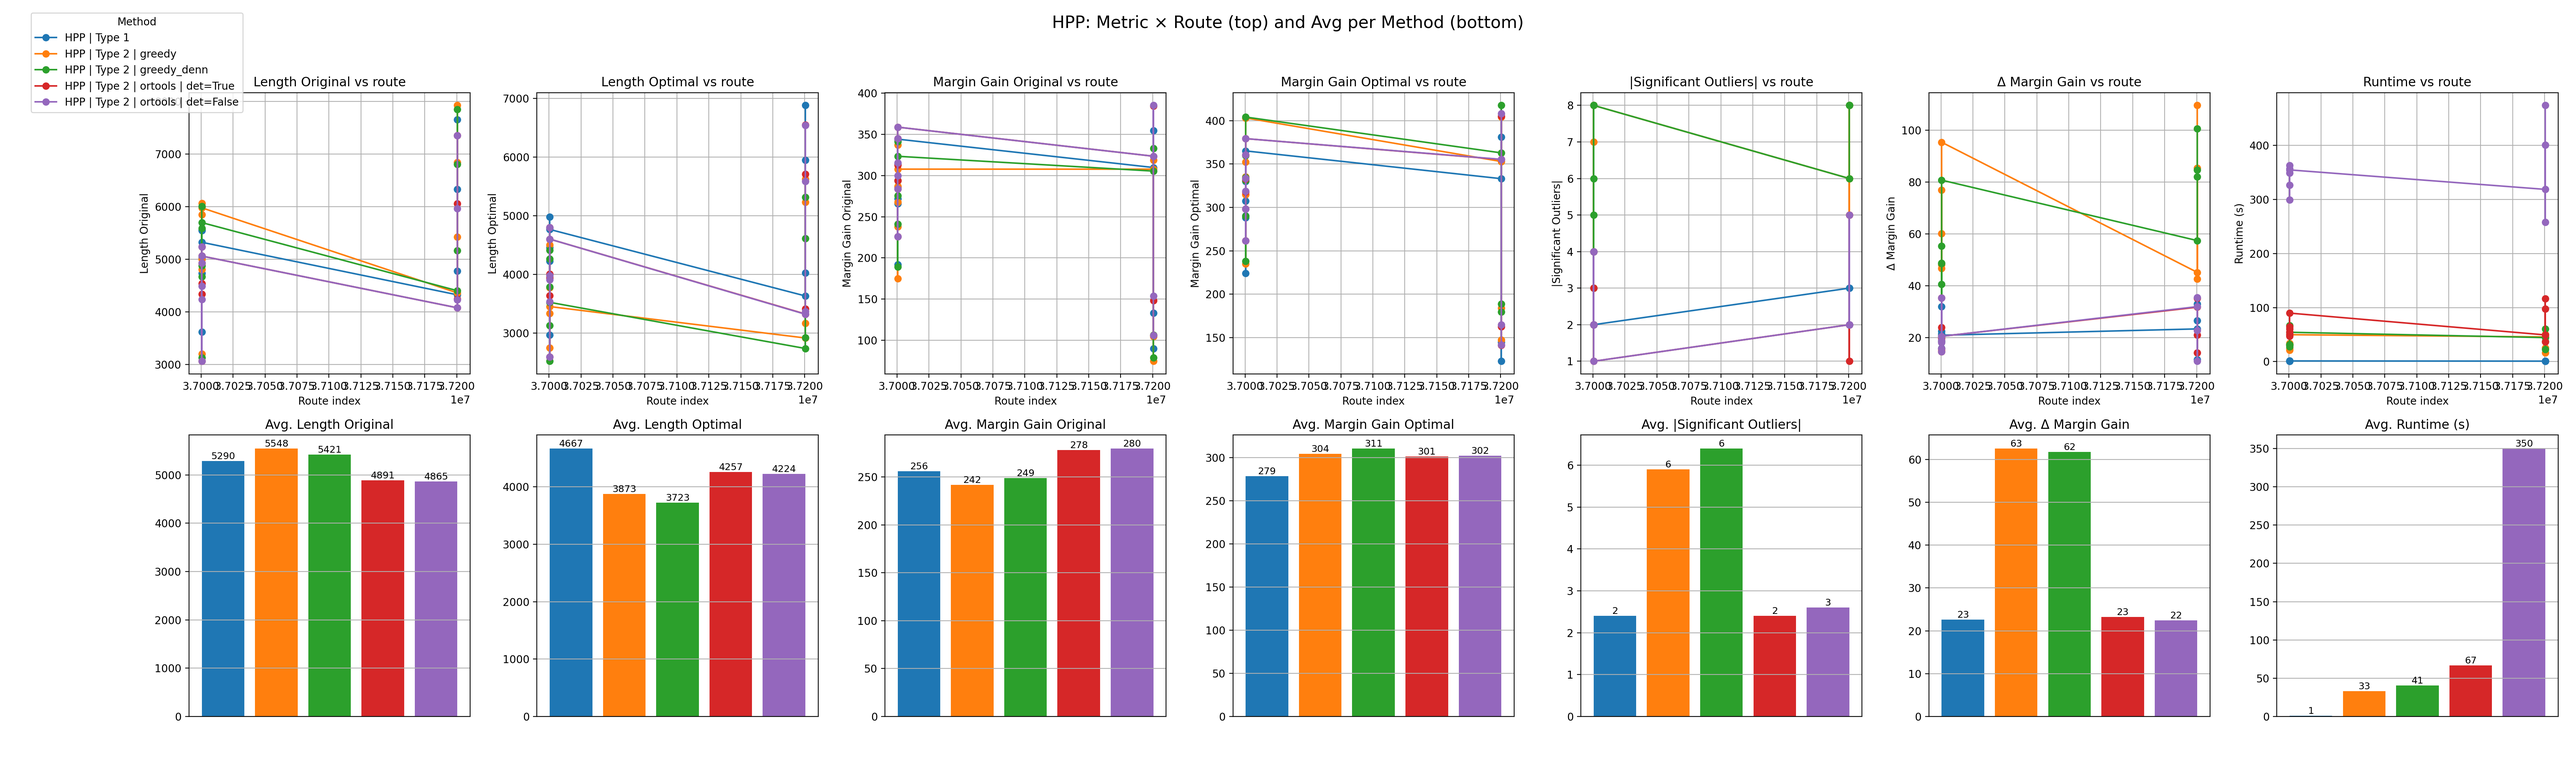
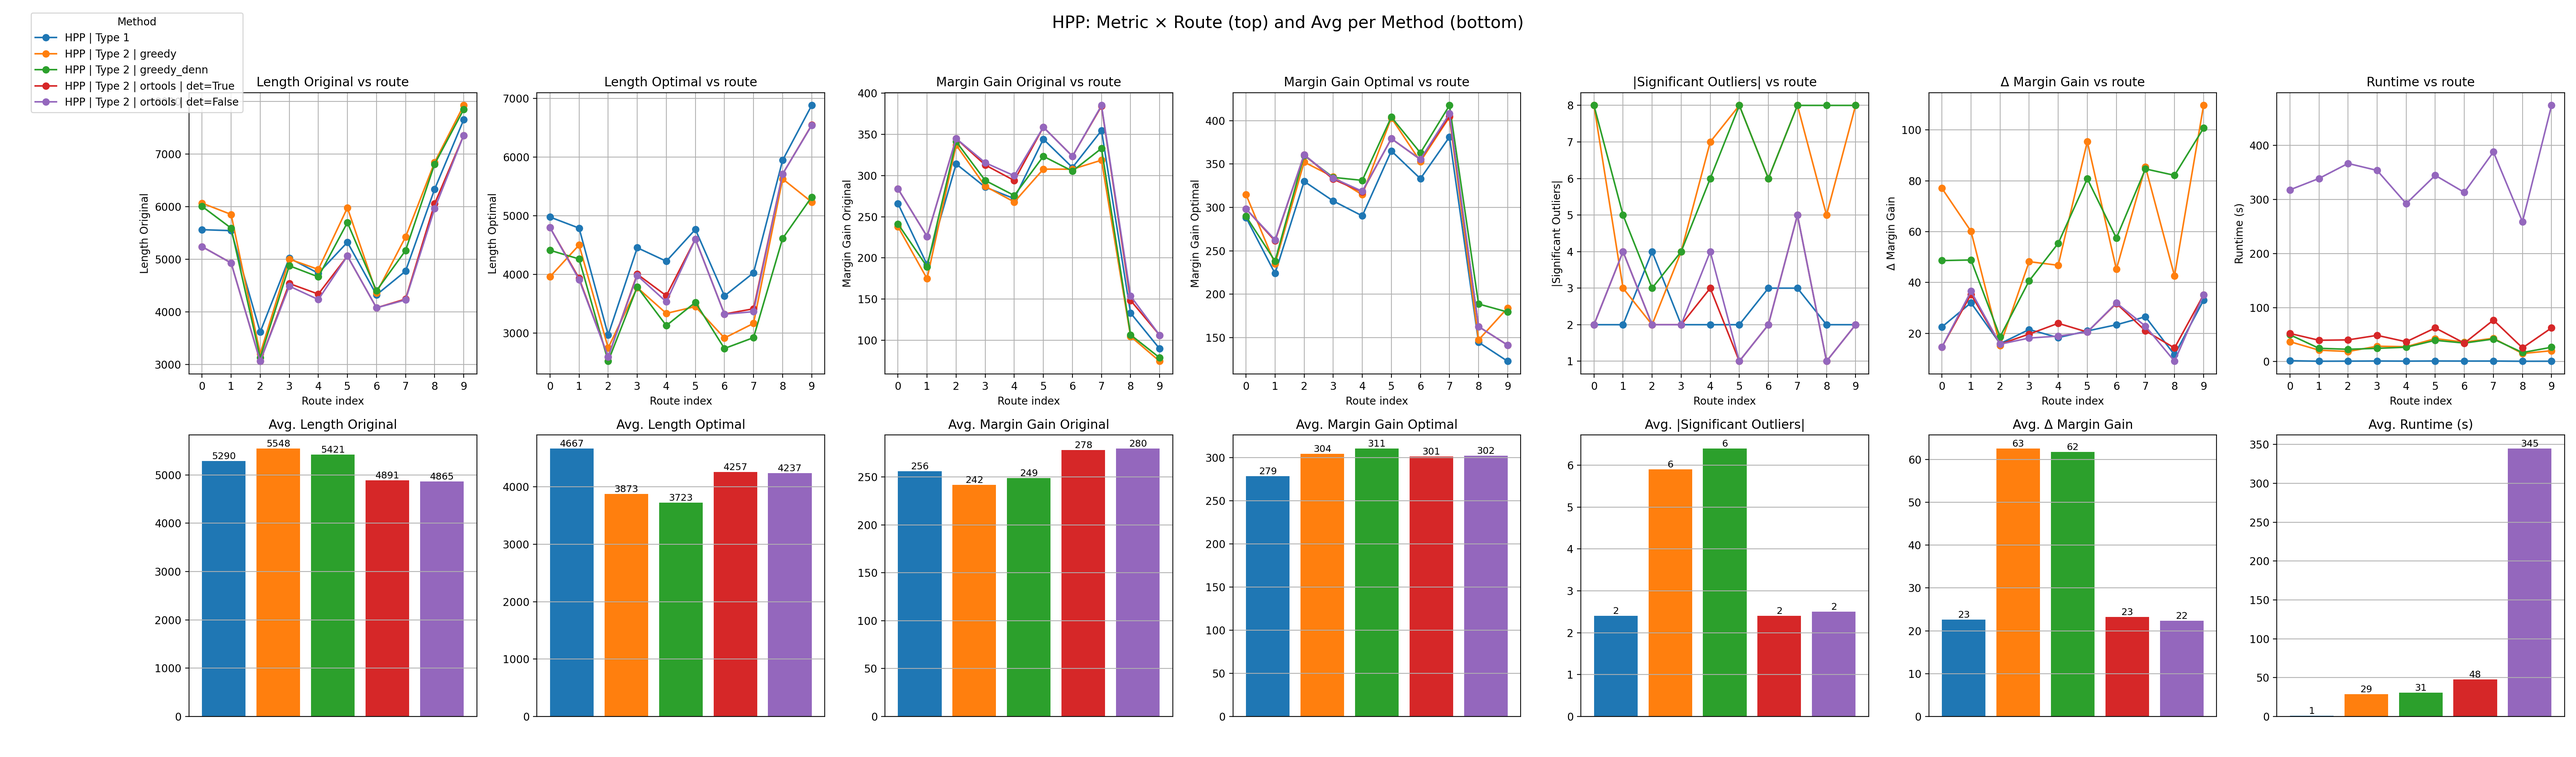
New simulation data and scripts

diff --git a/libraries/simulations/benchmarks/tsp/tsp_solver_benchmark.py b/libraries/simulations/benchmarks/tsp/tsp_solver_benchmark.py
@@ -5,6 +5,11 @@ import time
 from libraries.utils.algorithm.solvers.tsp import tsp_solve
 from libraries.utils.experiments.simulations import simulate_distance_matrix
 
+def _normalize_solvers(solvers):
+    if isinstance(solvers, dict):
+        return solvers
+    return {solver: [True] for solver in solvers}
+
 def benchmark_solvers(n_values, 
                       solvers, 
                       seed: int = 834, 
@@ -16,8 +21,14 @@ def benchmark_solvers(n_values,
       - length_results : {solver: [L(n1), L(n2), ...]}
       - time_results   : {solver: [t(n1), t(n2), ...]}
     """
-    length_results = {solver: [] for solver in solvers}
-    time_results   = {solver: [] for solver in solvers}
+    solvers = _normalize_solvers(solvers)
+    solver_labels = [
+        f"{solver} | det={det}" if len(det_modes) > 1 else solver
+        for solver, det_modes in solvers.items()
+        for det in det_modes
+    ]
+    length_results = {label: [] for label in solver_labels}
+    time_results   = {label: [] for label in solver_labels}
     for n in tqdm(n_values, desc="Running simulations"):
         D = simulate_distance_matrix(
                 n=n,
@@ -26,21 +37,24 @@ def benchmark_solvers(n_values,
                 outlier_fraction = outlier_fraction,
                 cluster_strength=cluster_strength,
         )
-        for solver in solvers:
-            try:
-                t0 = time.perf_counter()
-                _, L = tsp_solve(
-                    D,
-                    deterministic_tsp=True,
-                    solver=solver,
-                )
-                t1 = time.perf_counter()
-                length_results[solver].append(L)
-                time_results[solver].append(t1 - t0)
-            except Exception as e:
-                print(f"FAILED ({solver}, n={n}): {e}")
-                length_results[solver].append(np.nan)
-                time_results[solver].append(np.nan)
+        for solver, det_modes in solvers.items():
+            for det in det_modes:
+                label = f"{solver} | det={det}" if len(det_modes) > 1 else solver
+                try:
+                    t0 = time.perf_counter()
+                    _, L = tsp_solve(
+                        D,
+                        deterministic_tsp=det,
+                        solver=solver,
+                        ortools_time_limit=2,
+                    )
+                    t1 = time.perf_counter()
+                    length_results[label].append(L)
+                    time_results[label].append(t1 - t0)
+                except Exception as e:
+                    print(f"FAILED ({solver}, det={det}, n={n}): {e}")
+                    length_results[label].append(np.nan)
+                    time_results[label].append(np.nan)
     return length_results, time_results
 
 def plot_all_results(n_values, length_results, time_results,save_path):
@@ -85,7 +99,7 @@ def plot_all_results(n_values, length_results, time_results,save_path):
     bars = ax.bar(x, avg_len, color="steelblue")
     ax.set_title("Average TSP Tour Length Across n")
     ax.set_xticks(x)
-    ax.set_xticklabels(solvers)
+    ax.set_xticklabels(solvers, rotation=25, ha="right")
     ax.set_ylabel("Average tour length")
     ax.grid(axis='y')
     for bar, val in zip(bars, avg_len):
@@ -104,7 +118,7 @@ def plot_all_results(n_values, length_results, time_results,save_path):
     bars = ax.bar(x, avg_time, color="darkorange")
     ax.set_title("Average Solver Runtime Across n")
     ax.set_xticks(x)
-    ax.set_xticklabels(solvers)
+    ax.set_xticklabels(solvers, rotation=25, ha="right")
     ax.set_ylabel("Average runtime (seconds)")
     ax.grid(axis='y')
     for bar, val in zip(bars, avg_time):
@@ -123,7 +137,12 @@ def plot_all_results(n_values, length_results, time_results,save_path):
 def main():
     N_MIN = 50
     N_MAX = 100
-    solvers = ["greedy", "python_tsp", "ortools", "lkh"]
+    solvers = {
+        "greedy": [True],
+        "python_tsp": [True, False],
+        "ortools": [True, False],
+        "lkh": [True],
+    }
     n_values = list(range(N_MIN, N_MAX + 1))
     length_results, time_results = benchmark_solvers(n_values, solvers)
     plot_all_results(n_values, 

diff --git a/libraries/simulations/benchmarks/hpp/hpp_solver_benchmark.py b/libraries/simulations/benchmarks/hpp/hpp_solver_benchmark.py
@@ -5,6 +5,10 @@ import time
 from libraries.utils.algorithm.solvers.hpp import hpp_solve
 from libraries.utils.experiments.simulations import simulate_distance_matrix
 
+def _normalize_solvers(solvers):
+    if isinstance(solvers, dict):
+        return solvers
+    return {solver: [False, True] if solver == "ortools" else [True] for solver in solvers}
 
 def benchmark_hpp_solvers(
     n_values,
@@ -30,19 +34,12 @@ def benchmark_hpp_solvers(
       - length_results : {label: [L(n1), L(n2), ...]}
       - time_results   : {label: [t(n1), t(n2), ...]}
     """
+    solvers = _normalize_solvers(solvers)
     solver_specs = []
-    for solver in solvers:
-        if solver == "ortools":
-            solver_specs.append(
-                ("ortools", True, "ortools (det=T)")
-            )
-            solver_specs.append(
-                ("ortools", False, "ortools")
-            )
-        else:
-            solver_specs.append(
-                (solver, True, solver)
-            )
+    for solver, det_modes in solvers.items():
+        for det in det_modes:
+            label = f"{solver} | det={det}" if len(det_modes) > 1 else solver
+            solver_specs.append((solver, det, label))
     length_results = {label: [] for _, _, label in solver_specs}
     time_results = {label: [] for _, _, label in solver_specs}
     for n in tqdm(n_values, desc="Running HPP simulations"):
@@ -116,7 +113,7 @@ def plot_all_results(n_values, length_results, time_results, save_path: str):
     bars = ax.bar(x, avg_len, color="steelblue")
     ax.set_title("Average HPP Path Length Across n")
     ax.set_xticks(x)
-    ax.set_xticklabels(solvers)
+    ax.set_xticklabels(solvers, rotation=25, ha="right")
     ax.set_ylabel("Average path length")
     ax.grid(axis="y")
     for bar, val in zip(bars, avg_len):
@@ -135,7 +132,7 @@ def plot_all_results(n_values, length_results, time_results, save_path: str):
     bars = ax.bar(x, avg_time, color="darkorange")
     ax.set_title("Average Solver Runtime Across n")
     ax.set_xticks(x)
-    ax.set_xticklabels(solvers)
+    ax.set_xticklabels(solvers, rotation=25, ha="right")
     ax.set_ylabel("Average runtime (seconds)")
     ax.grid(axis="y")
     for bar, val in zip(bars, avg_time):
@@ -153,12 +150,12 @@ def plot_all_results(n_values, length_results, time_results, save_path: str):
 
 def main(N_MIN = 50,
          N_MAX = 100):
-    solvers = [
-        "greedy",    
-        "greedy_denn",           
-        "cheapest_insertion",   
-        "ortools",              
-    ]
+    solvers = {
+        "greedy": [True],
+        "greedy_denn": [True],
+        "cheapest_insertion": [True],
+        "ortools": [True, False],
+    }
     initial_point_method = {"method": "GREEDY_DNN"}
     n_values = list(range(N_MIN, N_MAX + 1))
     fixed_endpoints = {"start": None, "end": None}

diff --git a/libraries/simulations/benchmarks/hybrid/hybrid_route_performance.py b/libraries/simulations/benchmarks/hybrid/hybrid_route_performance.py
@@ -69,8 +69,8 @@ def build_pipeline_kwargs(runner: Dict[str, Any]) -> Dict[str, Any]:
         "A_kwargs": alg.get("A_kwargs", {"method": "kneedle"}),
         "B_kwargs": alg.get("B_kwargs", {"L_max": 8}),
         "type1_methods": alg.get("type1_methods", ["A", "B", "Beam"]),
-        "type2_methods": alg.get("type2_methods", ["A", "B", "Beam"]),
-        "ortools_time_limit": alg.get("ortools_time_limit", 5),
+        "type2_methods": alg.get("type2_methods", ["A", "B"]),
+        "ortools_time_limit": alg.get("ortools_time_limit", 2),
         "initial_point_method": alg.get("initial_point_method", None),
         "start_routes": routing.get("start_routes", None),
         "html_render": output.get("html_render", False),

diff --git a/libraries/simulations/benchmarks/hpp/hpp_initial_point_study.py b/libraries/simulations/benchmarks/hpp/hpp_initial_point_study.py
@@ -179,7 +179,7 @@ def main():
         n_values,
         length_results,
         time_results,
-        save_path="libraries/simulations/_img/benchmarks/hpp/hpp_initial_point_study.png",
+        save_path="libraries/simulations/_img/benchmarks/hpp/hpp_ortools_initial_point_study.png",
     )
 
 
